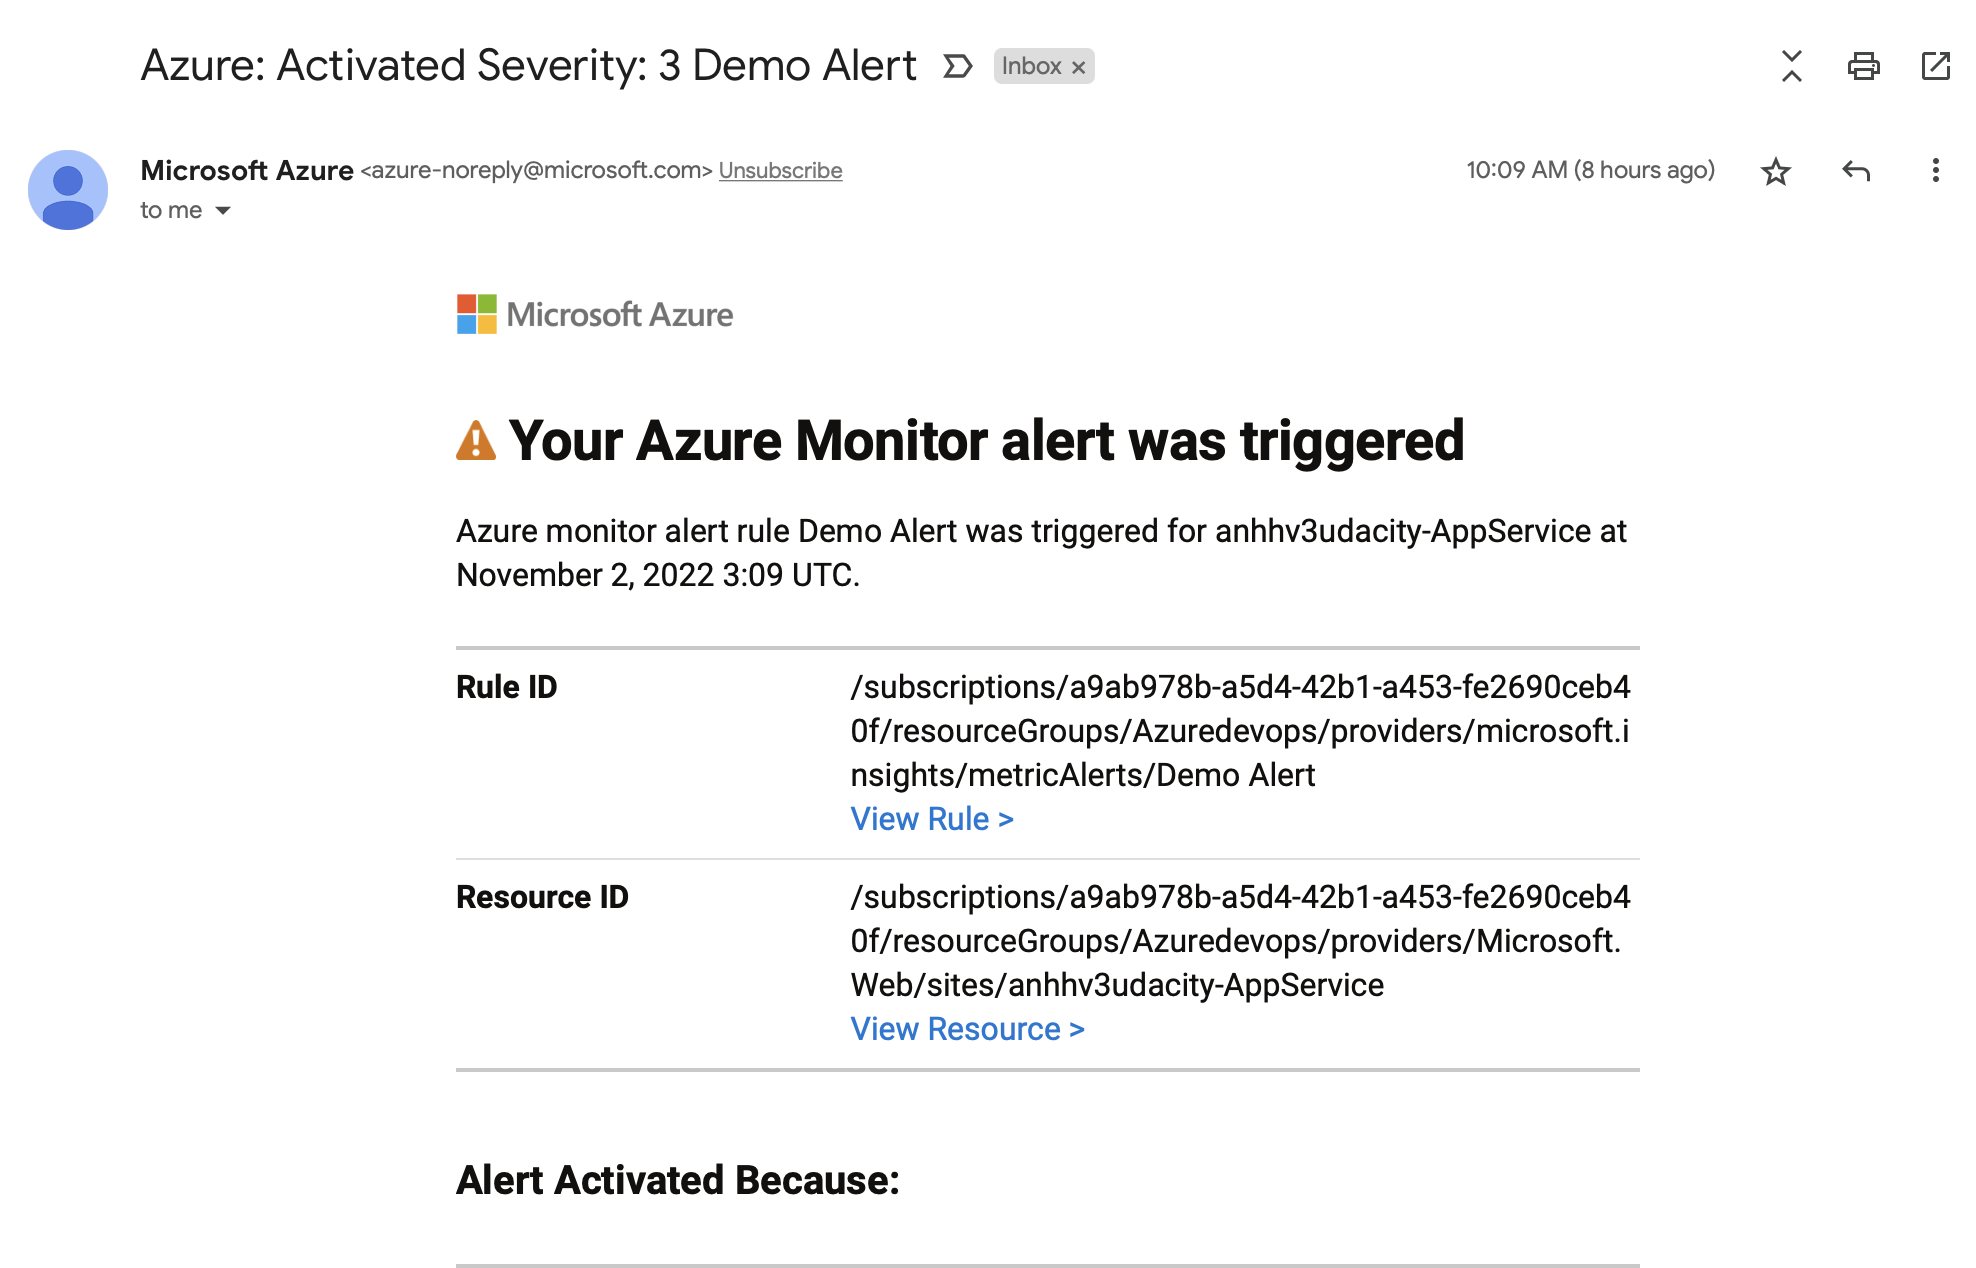
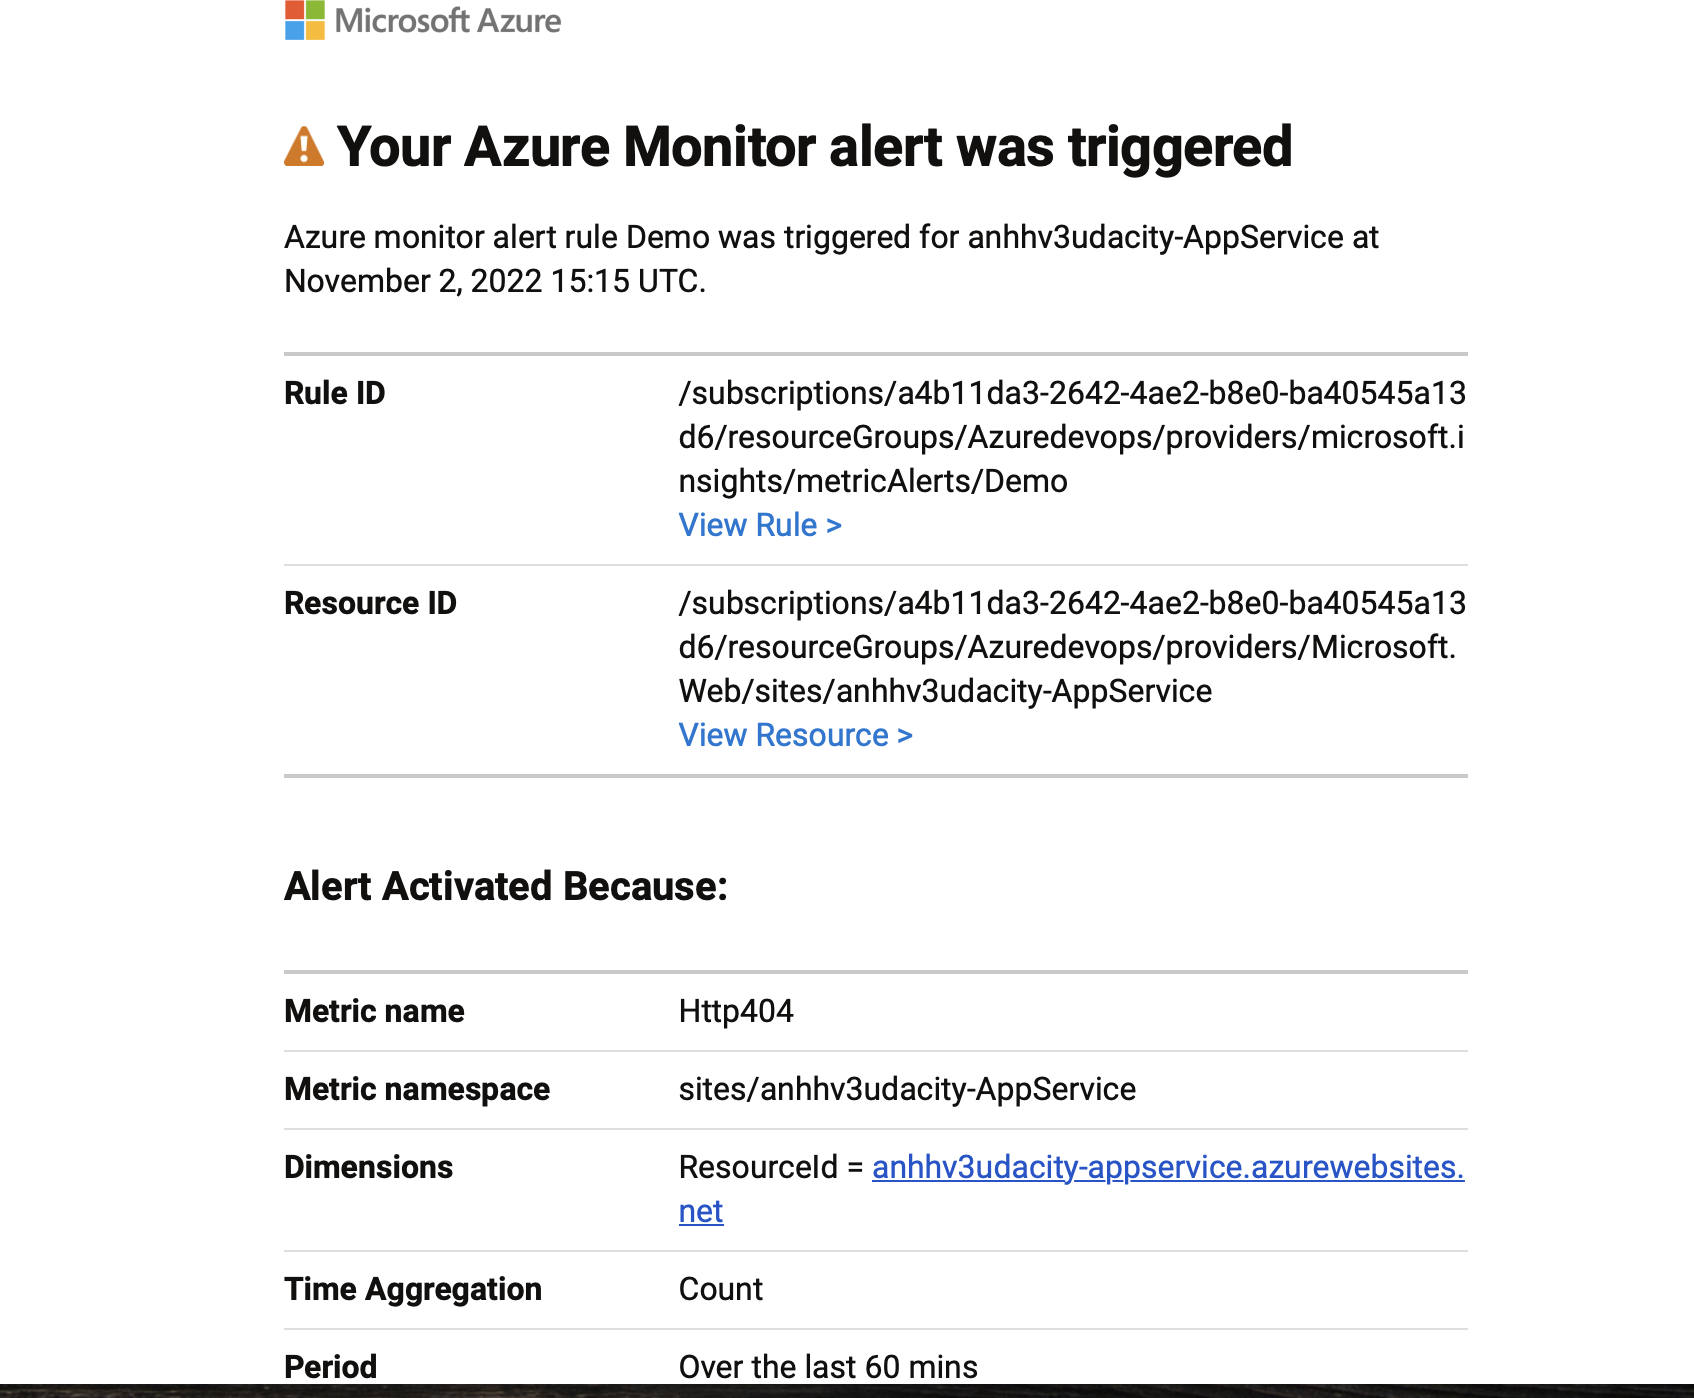
Update README

diff --git a/README.md b/README.md
@@ -1,10 +1,75 @@
-# Project Starter
-This repository contains the starter code for the **Ensuring Quality Releases** project of the cd1807 Ensuring Quality Releases (Quality Assurance) course taught by Nathan Anderson. 
+# Ensuring Quality Releases
+
+This repository contains the submission code for the **Ensuring Quality Releases** project of the cd1807 Ensuring Quality Releases (Quality Assurance) course taught by Nathan Anderson.
+
+## Azure Pipeline
+
+## Pre-requisition
+
+To operate on this repo, following actions are required:
+
+* Have an Azure Account
+* Install `az cli`
+* Login to your Azure account using CLI:
+
+```sh
+az login
+```
+
+* Build packer images with this [template](/packer/)
+* Create a storage account based on this [script](/terraform/environments/test/configure-tfstate-storage-account.sh)
+* Add your Azure account to service connection in Azure DevOps project
+
+## Pipeline
+
+Azure pipeline include of 3 stages:
+
+* Build: building infrastructure using Terraform and publish artifact for later stages
+* Deploy: deploying Fake Rest API to Azure App Service using ZIP Deployment
+* Test: running 3 test suites including: Postman/Newman, JMeter, Selenium
+
+## Monitoring configuration
+
+### App Service Alert
+
+Following this [document](https://learn.microsoft.com/en-us/azure/azure-monitor/alerts/alerts-overview) to create alert for Azure App Services.
+
+### Log Analytics for VM
+
+Following this [document](https://learn.microsoft.com/en-us/azure/azure-monitor/agents/data-sources-custom-logs) to create Custom Logs for VM. Please be patient while waiting for logs to be ingested to Log Analytics
+
+## Results
+
+* [Terraform](/terraform/environments/test/) and screenshot of the log output of Terraform when executed by the CI/CD pipeline
+![alt text](screenshots/terraform_pipeline.png "terraform_pipeline")
+
+* [Azure Pipeline](/azure-pipelines.yaml) and a screenshot of the successful execution of the pipeline.
+![alt text](screenshots/pipeline_success.png "pipeline_success")
+
+* [Postman collections and environment](/automatedtesting/postman/). Three screenshots of the Test Run Results from Postman shown in Azure DevOps. Noticed that the failed status is because some of the environment VMs are offline
+![alt text](screenshots/postman_test_report.png "pipeline_success")
+![alt text](screenshots/postman_regression_test.png "postman_regression_test")
+![alt text](screenshots/postman_data_validation_test.png "postman_regression_test")
+
+* [Selenium Python file](/automatedtesting/selenium/uitest.py) and a screenshot of the successful execution of the Test Suite on a VM in Azure DevOps
+![alt text](screenshots/selenium_pipeline_passed.png "selenium_pipeline_passed")
+
+* [JMeter test results for each test suites](/automatedtesting/jmeter/test-suites/html_report/). A screenshot of the log output of JMeter when executed by the CI/CD pipeline
+![alt text](screenshots/jmeter_test.png "jmeter_test")
+![alt text](screenshots/jmeter_html_report.png "jmeter_test")
+
+* Screenshots of the email received when the alert is triggered, the graphs of the resource that the alert was triggered for (be sure to include timestamps for the email and the graphs), and the alert rule, which will show the resource, condition, action group, alert name, and severity.
+![alt text](screenshots/azure_alert_email.png "azure_alert_email")
+![alt text](screenshots/azure_alert_chart.png "azure_alert_email")
+![alt text](screenshots/azure_alert_rule.png "azure_alert_email")
+![alt text](screenshots/azure_alert_metric.png "azure_alert_email")
 
 
-## How to use?
-- Fork this repository to your Github account and clone it locally for further development. 
-- Follow the classroom instructions, and check the rubric before a submission. 
+* Screenshots of log analytics queries and result sets which will show specific output of the Azure resource. The result set will include the output of the execution of the Selenium Test Suite (be sure to include timestamps).
+![alt text](screenshots/azure_mv_log_analytics.png "azure_mv_log_analytics")
 
-## Suggestions and Corrections
-Feel free to submit PRs to this repo should you have any proposed changes. 
+
+
+## Improvement
+
+* The API used in POSTMAN section is really unstable, constantly giving `429 Too Many Requests` error, I would suggest to change the API for testing
